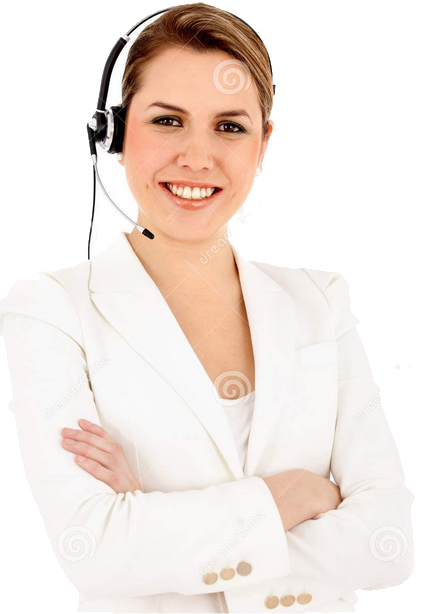
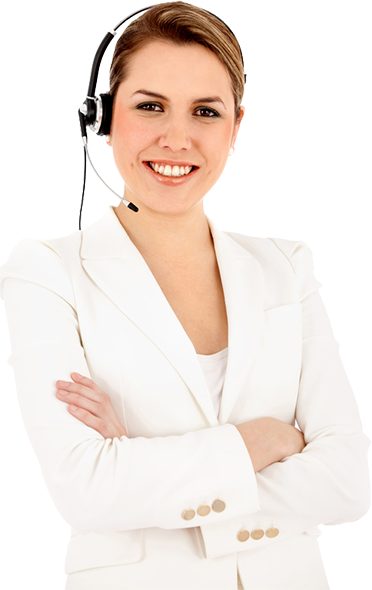
frontend finish 0.1

diff --git a/skin/frontend/rwdTim/default/css/styles.css b/skin/frontend/rwdTim/default/css/styles.css
@@ -10640,7 +10640,7 @@ div.calendar table td.button {
 
 .tim-header-carttop .header-minicart {
 float:right;
-    width:140px;
+/*    width:140px; */
 }
 
 .tim-topmenu {
@@ -10868,9 +10868,13 @@ content: '.';
 
 .lp-photo2 {
     position: absolute;
-    top:0px;
+    bottom:0px;
     left:24%;
     z-index: 0;
+}
+
+.lp-photo2 img {
+    max-height: 435px;
 }
 
 
@@ -10949,6 +10953,7 @@ text-align: center;
     display: block;
     overflow: auto;
        padding-right: 20px;
+    font-weight: bold;
 }
 
 .shortdesc-first {
@@ -10959,7 +10964,7 @@ text-align: center;
     padding-top: 10px;
     padding-bottom: 10px;
     padding-right: 20px;
-    border-left: 4px solid #0b5ed8;
+    /* border-left: 4px solid #0b5ed8; */
 }
 
 .more-views {
@@ -10971,6 +10976,7 @@ text-align: center;
     font-size:22px;
         font-weight:bold;
     text-align: center;
+    text-transform: uppercase;
 }
 .pabout-two {
     font-weight:bold;
@@ -11089,26 +11095,24 @@ padding: 5px 0 5px 30px;
 }
 
 .customercare-getback a:link {
-    width:50%;
-    text-align: center;
-    font-size:18px;
-    padding: 10px 25px 10px 25px;
-    background-color: #0b5ed8;
-    color: #fff;
-    margin-top:30px;
-    display:block;
+    font-size: 14px;
+    padding: 8px 0 0 30px;
+    color: #0b5ed8;
+    margin-top: 10px;
+    display: block;
+    border-top: 1px solid #eee;
+        width: 50%;
 }
 
 .customercare-getback a:hover {
-    background-color: #e2007a;
+    color: #e2007a;
     text-decoration: none;
     
 }
 
 .customercare-getback a:visited {
-    background-color: #0b5ed8;
     text-decoration: none;
-        color: #fff;
+        color: #0b5ed8;
 }
 
 .customercare-spaceup {
@@ -11161,10 +11165,12 @@ ol.nav-primary {
 }
 
 .pabout2a {
-    color:#0b5ed8;
-    margin-top:15px;
-    margin-bottom:10px;
-    border-left:3px solid #0b5ed8;
+color: #0b5ed8;
+    margin-top: 20px;
+    margin-bottom: 8px;
+    border-left: 2px solid #0b5ed8;
+    font-weight: bold;
+    padding-left: 8px;
 }
 
 .lbulbsinfoe14 {
@@ -11178,4 +11184,9 @@ ol.nav-primary {
     background-position: right bottom;
     background-size:contain;    
     
+}
+
+ul.pabout-listli li {
+        font-size: 13px;
+    margin-bottom: 10px;
 }
